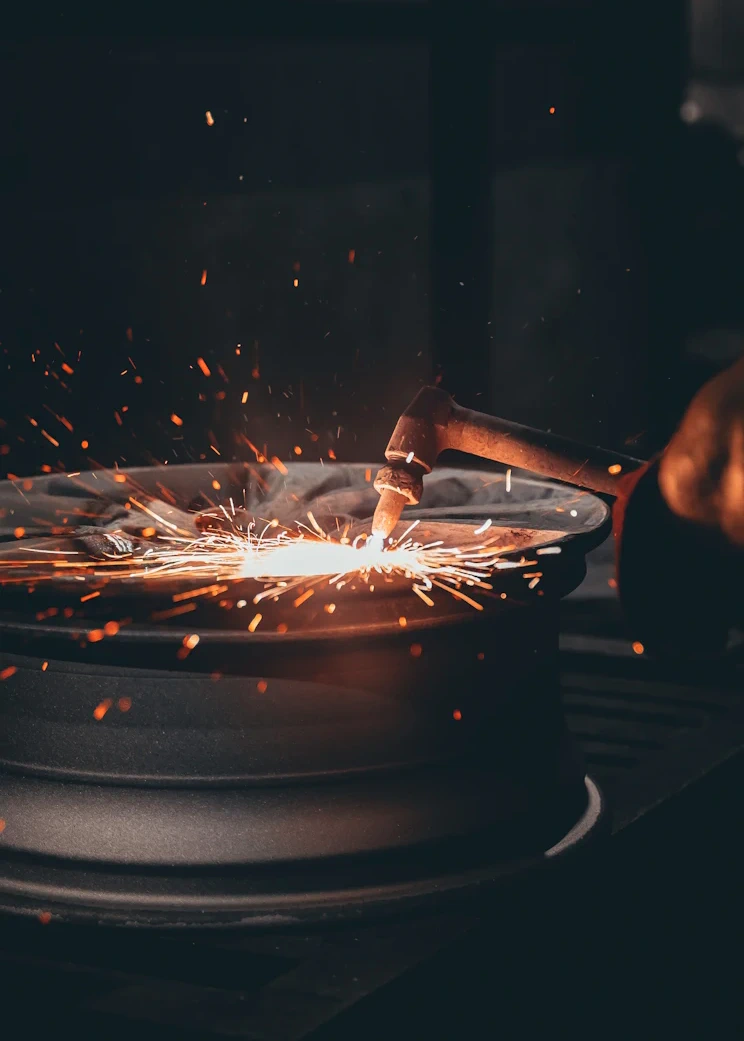
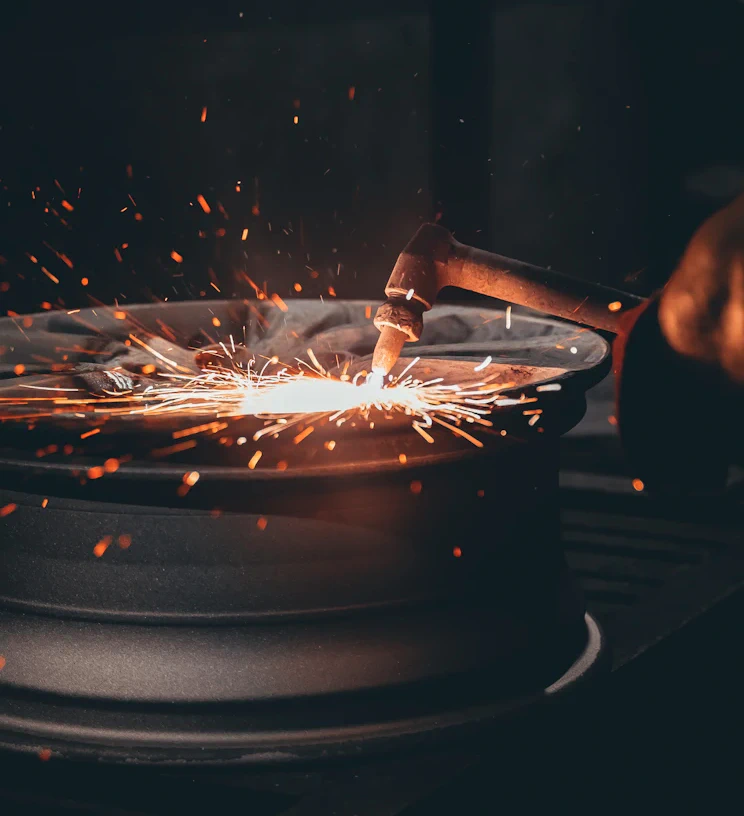
a

diff --git a/assets/css/critical.css b/assets/css/critical.css
@@ -225,7 +225,6 @@ textarea:focus-visible,
 }
 
 .hero .banner__area-content {
-  max-width: 700px;
   padding: 20px 0 30px;
 }
 
@@ -256,7 +255,6 @@ textarea:focus-visible,
 }
 
 .hero__lead {
-  max-width: 610px;
   margin-bottom: 30px;
   color: #c9cbcc;
   font-size: 18px;
@@ -1848,6 +1846,9 @@ a, button, .theme-btn-1, .mlv-callbar, .scroll-up, .popup-nav, .close {
   .header__area-box-main-menu.one.meanmenu-responsive {
     width: 100%;
   }
+  .hero .banner__area-content h1 {
+    font-size: clamp(30px, 5.5vw, 48px);
+  }
 }
 
 @media (max-width: 575px) {
@@ -1862,3 +1863,30 @@ a, button, .theme-btn-1, .mlv-callbar, .scroll-up, .popup-nav, .close {
 @media (max-width: 767px) { .pre__header { display: none !important; } }
 
 .mlv-mission__cta{margin-top:20px}
+.hero__image-wrap {
+  position: relative;
+  overflow: hidden;
+  min-height: 520px;
+}
+
+.hero__image-wrap::after {
+  content: "";
+  position: absolute;
+  inset: 0;
+  background: linear-gradient(to right, rgba(16, 40, 46, 1) 0%, rgba(16, 40, 46, 0.02) 100%);
+  pointer-events: none;
+}
+
+.hero__image-wrap img {
+  width: 100%;
+  height: 100%;
+  min-height: 520px;
+  object-fit: cover;
+  display: block;
+}
+
+@media (max-width: 991px) {
+  .hero__image-wrap {
+    display: none;
+  }
+}

diff --git a/index.html b/index.html
@@ -216,7 +216,7 @@
 	<!-- Header Area End -->
 <main>
 	<!-- Banner Area Start -->
-	<div id="main-content" class="banner__area hero" style="padding-top: 100px;">
+	<div id="main-content" class="banner__area hero" style="padding-top: 100px;padding-bottom: 0;">
 		<div class="container custom-container">
 			<div class="row align-items-center">
 				<div class="col-xl-7 col-lg-6">
@@ -240,7 +240,7 @@
 					</div>
 				</div>
 				<div class="col-xl-5 col-lg-6">
-					<div class="min-h-[520px] overflow-hidden lg:min-h-full" style="position: relative;">
+					<div class="hero__image-wrap">
 						<img src="images/welding-hero.webp" srcset="images/welding-hero-744.webp 744w, images/welding-hero-1024.webp 1024w, images/welding-hero.webp 1488w" sizes="(max-width: 991px) 100vw, 500px" alt="Véhicule utilitaire de Mécanique Luc Vallerand" width="1024" height="492" fetchpriority="high" decoding="async">
 					</div>
 				</div>

diff --git a/assets/css/phase1.css b/assets/css/phase1.css
@@ -144,7 +144,6 @@ textarea:focus-visible,
 }
 
 .hero__lead {
-  max-width: 610px;
   margin-bottom: 30px;
   color: #c9cbcc;
   font-size: 18px;
